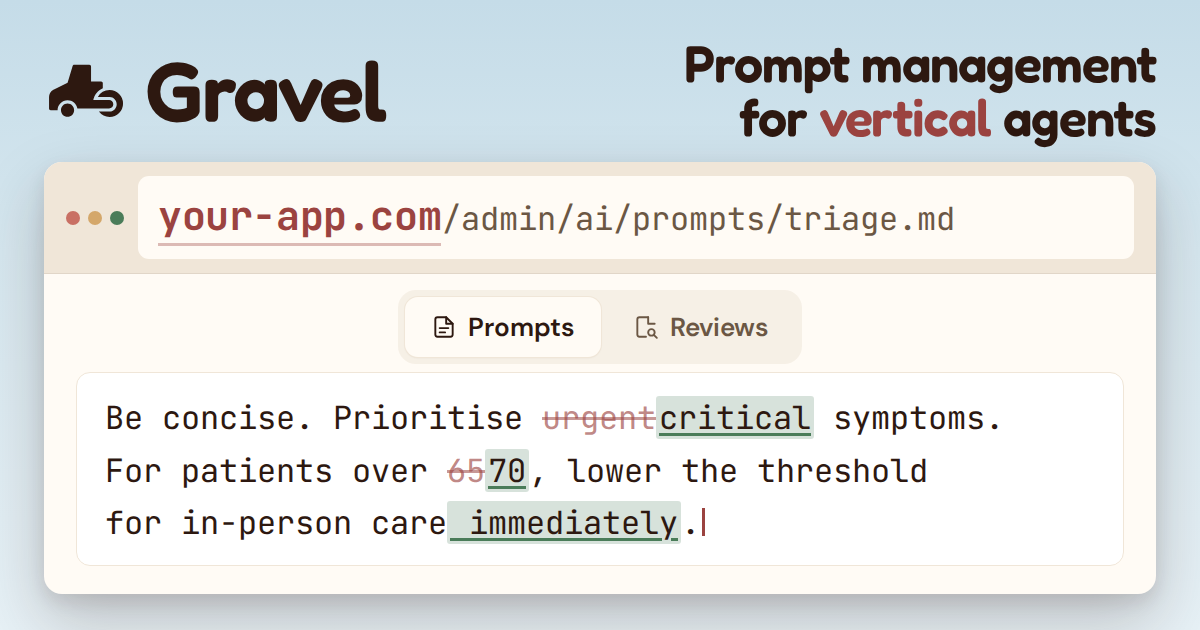
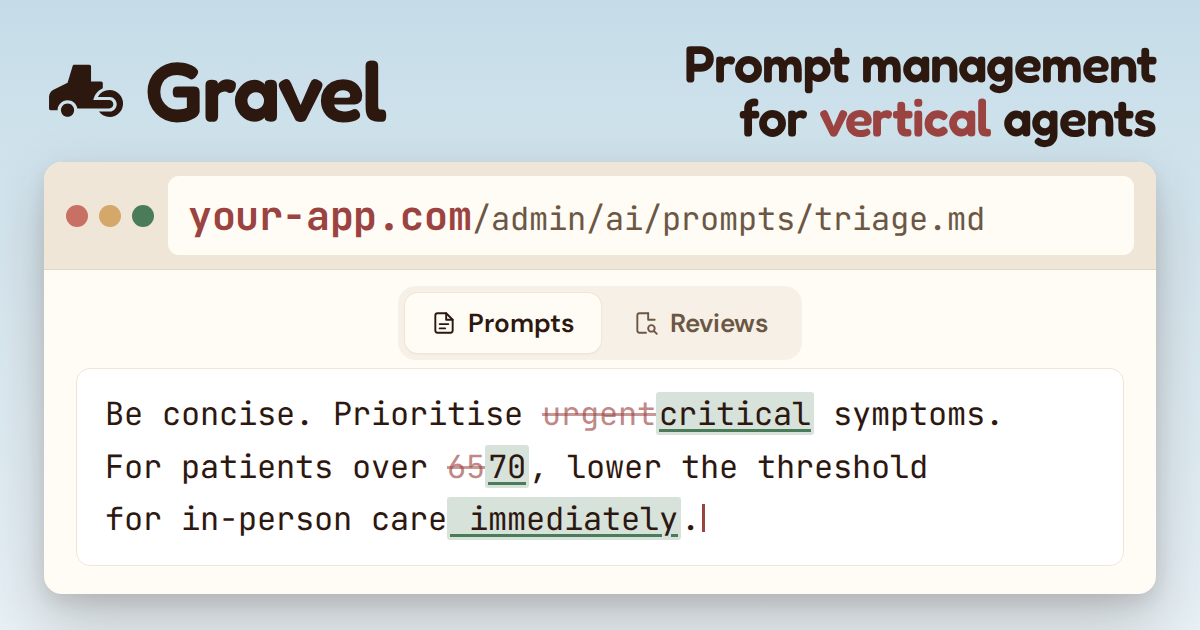
gravel-lander: text-shadow glow pulse (no bleed) + bigger window dots + drop OG underline

diff --git a/gravel/index.html b/gravel/index.html
@@ -155,19 +155,23 @@
             0%, 50% { opacity: 1; }
             50.01%, 100% { opacity: 0; }
         }
-        /* Subtle scale pulse on the URL bar host. The viewer's eye
-           lands on "your-app.com" → instantly understands the
-           dashboard is mounted INSIDE their own app. Reduced-motion
-           preference disables it. */
+        /* Attention pulse on the URL bar host. The viewer's eye lands
+           on "your-app.com" → instantly understands the dashboard is
+           mounted INSIDE their own app. Layout-stable (no transform);
+           pulses a coloured text-shadow glow + a brief underline so
+           neighbours don't shift. Reduced-motion disables it. */
         .your-app-pulse {
-            display: inline-block;
-            transform-origin: left center;
+            position: relative;
+            text-shadow: 0 0 0 transparent;
             animation: your-app-pulse 2.6s ease-in-out infinite;
         }
         @keyframes your-app-pulse {
-            0%, 100% { transform: scale(1); }
-            45% { transform: scale(1.12); }
-            55% { transform: scale(1.12); }
+            0%, 100% {
+                text-shadow: 0 0 0 rgba(196, 78, 70, 0);
+            }
+            50% {
+                text-shadow: 0 0 14px rgba(196, 78, 70, 0.55);
+            }
         }
         @media (prefers-reduced-motion: reduce) {
             .your-app-pulse { animation: none; }

diff --git a/gravel/og.html b/gravel/og.html
@@ -97,8 +97,8 @@
       background: #F0E6D8;
       border-bottom: 1px solid rgba(46, 24, 16, 0.08);
     }
-    .dots { display: flex; gap: 8px; }
-    .dot { width: 14px; height: 14px; border-radius: 999px; }
+    .dots { display: flex; gap: 11px; }
+    .dot { width: 22px; height: 22px; border-radius: 999px; }
     .dot.r { background: #C97064; }
     .dot.y { background: #D4A76A; }
     .dot.g { background: #4A7C59; }
@@ -121,8 +121,6 @@
       font-weight: 700;
       font-size: 40px;
       letter-spacing: -0.01em;
-      border-bottom: 3px solid rgba(155, 67, 64, 0.35);
-      padding-bottom: 1px;
     }
     .url-bar .path {
       color: #6B5744;
